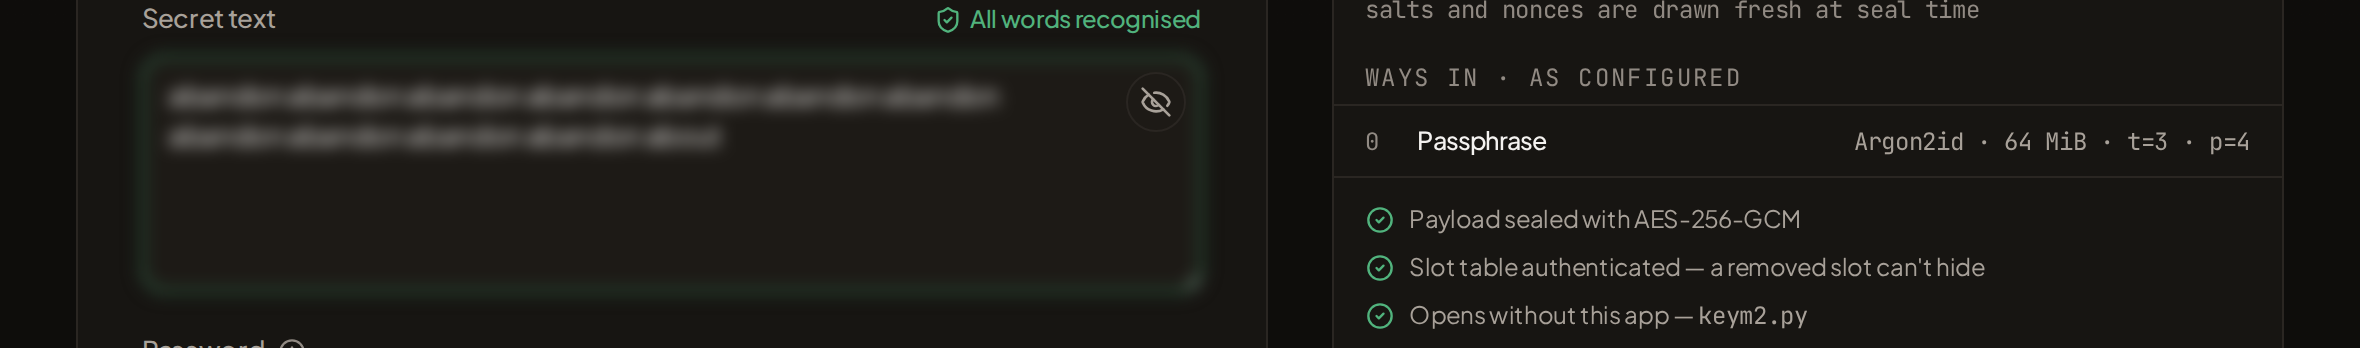
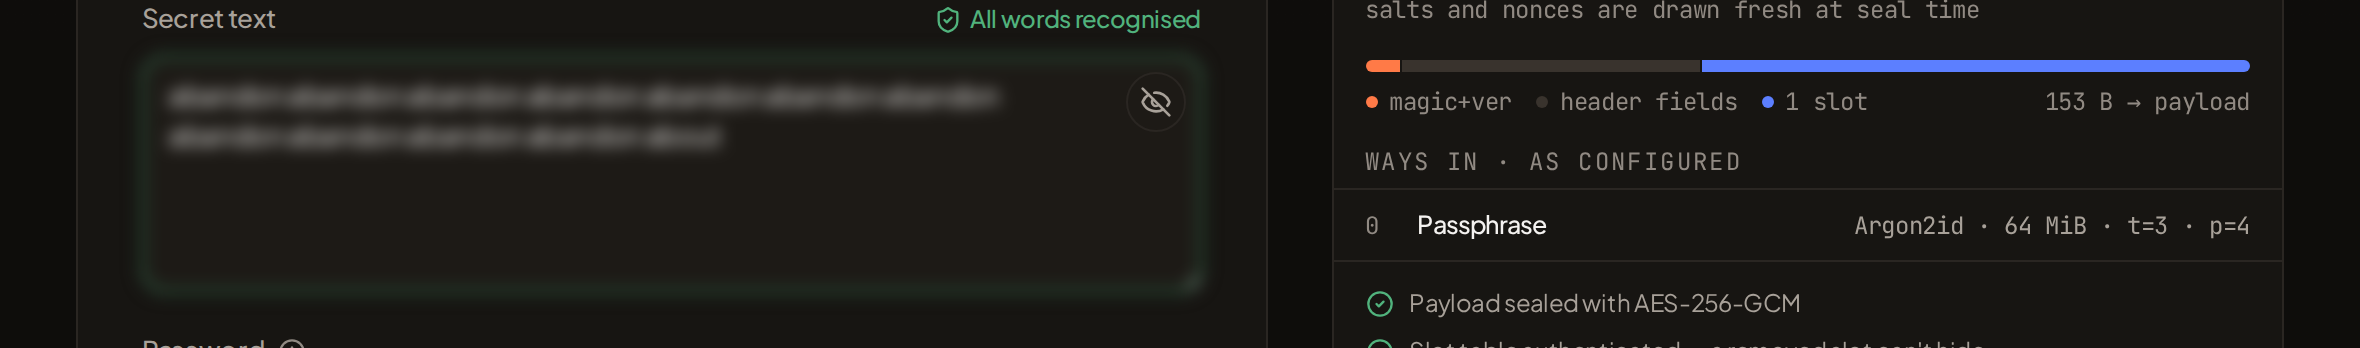
feat(ui): spend the sparks in the inspector - the byte map
UI-REVIEW.md item 4, the one deliberately left for its own change. The
container inspector gains a byte map under the hex readout: a strip
whose segment widths are the byte extents the parser (or the declared
plan) computes - ember for the 5-byte magic+version stamp, border-strong
for the header fields, #5C7FFF per slot. More slots draw a longer
table and a chained cipher draws wider slots, so the picture cannot
disagree with the rows below it. This is the data-visualisation use
DESIGN-SYSTEM.md's sparks section has sanctioned all along; the lifted
cuts had simply never been spent.

Marks only: every glyph stays in the warm text scale, and the block is
aria-hidden because the annotation line and the slot rows already say
all of it in text. It renders in the parsed branch and the itemised
plan branch, never the summary - the anticipation rule counts a diagram
as itemisation, and the spec asserts the absence.

The gate moved with the colour. #5c7fff and #ff7a47 joined the palette
audit's ALLOWED list (membership in the document alone is the drift the
audit exists to prevent), and the audit gained the itemised-plan view
as its eighth, so the one sanctioned use of the sparks is actually
scanned rather than shipping past a sweep that never opens the
disclosure.

Both directions were sabotage-verified. A map hardcoded to one slot
compiled and failed the two-slot container's segment count - the
fixed-picture defect the assertions were written for. Removing #5c7fff
[…]

diff --git a/src/components/container-inspector.tsx b/src/components/container-inspector.tsx
@@ -42,10 +42,92 @@ import { cn } from "@/lib/utils";
 export interface InspectorPlan {
   kdfLabel: string;
   cipherLabel: string;
+  /** The cipher as an id, so the byte map can size slots the way §6 does. */
+  cipherId: CipherId;
   keyFile: boolean;
   shares: { threshold: number; count: number } | null;
   passkey: boolean;
   inputBytes: number | null;
+}
+
+/* ── The byte map ─────────────────────────────────────────────────────────
+ *
+ * The one place the sparks are spent. § "The sparks — quarantined" permits
+ * the lifted cuts #5C7FFF / #FF7A47 in data visualisation and nowhere else,
+ * and this strip is data, not decoration: each segment's width is the byte
+ * extent it describes, computed from the same offsets the parser (or the
+ * plan) uses, so more slots draw a longer table and a chained cipher draws
+ * wider slots. Nothing here is invented, which is this pane's standing rule.
+ *
+ * Marks only — the type rule stands: a byte in a spark colour is a defect,
+ * so the sparks live in the segments and the legend dots while every glyph
+ * stays in the warm text scale. The whole block is aria-hidden because it
+ * restates what the annotation line and the slot rows already say in text;
+ * a screen reader loses nothing.
+ *
+ * `flexBasis: 3` is the honesty floor: the 5-byte stamp against a 300-byte
+ * header would otherwise round to nothing, and a map whose first landmark
+ * is invisible explains nothing. Below 3px the strip is schematic and the
+ * caption's byte count is the exact figure.
+ */
+interface ByteSpan {
+  key: string;
+  kind: "stamp" | "fields" | "slot";
+  bytes: number;
+}
+
+const SPAN_FILL: Record<ByteSpan["kind"], string> = {
+  stamp: "bg-[#FF7A47]",
+  fields: "bg-border-strong",
+  slot: "bg-[#5C7FFF]",
+};
+
+function byteMapSpans(version: number, cipher: number, slotCount: number): ByteSpan[] {
+  const table = keym2SlotTableOffset(version);
+  const width = keym2SlotLen(cipher);
+  return [
+    { key: "stamp", kind: "stamp", bytes: 5 },
+    { key: "fields", kind: "fields", bytes: table - 5 },
+    ...Array.from({ length: slotCount }, (_, i): ByteSpan => ({
+      key: `slot-${i}`,
+      kind: "slot",
+      bytes: width,
+    })),
+  ];
+}
+
+function ByteMap({ spans }: { spans: ByteSpan[] }) {
+  const total = spans.reduce((sum, s) => sum + s.bytes, 0);
+  const slots = spans.filter((s) => s.kind === "slot").length;
+  return (
+    <div aria-hidden="true" data-testid="inspector-byte-map" className="px-4 pt-3">
+      <div className="flex h-1.5 gap-px overflow-hidden rounded-full">
+        {spans.map((span) => (
+          <span
+            key={span.key}
+            data-kind={span.kind}
+            className={cn("h-full", SPAN_FILL[span.kind])}
+            style={{ flexGrow: span.bytes, flexBasis: 3 }}
+          />
+        ))}
+      </div>
+      <p className="flex flex-wrap items-center gap-x-3 gap-y-1 pt-1.5 font-mono text-[12px] text-subtle-foreground">
+        <span className="flex items-center gap-1.5">
+          <span className="inline-block h-1.5 w-1.5 rounded-full bg-[#FF7A47]" />
+          magic+ver
+        </span>
+        <span className="flex items-center gap-1.5">
+          <span className="inline-block h-1.5 w-1.5 rounded-full bg-border-strong" />
+          header fields
+        </span>
+        <span className="flex items-center gap-1.5">
+          <span className="inline-block h-1.5 w-1.5 rounded-full bg-[#5C7FFF]" />
+          {slots === 1 ? "1 slot" : `${slots} slots`}
+        </span>
+        <span className="ml-auto">{total} B → payload</span>
+      </p>
+    </div>
+  );
 }
 
 interface SlotRow {
@@ -56,6 +138,8 @@ interface SlotRow {
 
 interface ParsedPeek {
   version: number;
+  /** Kept as the id beside the label: the byte map sizes slots from it. */
+  cipher: number;
   cipherLabel: string;
   slotCount: number;
   slots: SlotRow[];
@@ -122,6 +206,7 @@ function parsePeek(peek: Uint8Array): ParsedPeek | "legacy" | null {
 
     return {
       version: core.version,
+      cipher: core.cipher,
       cipherLabel: cipherLabelOf(core.cipher),
       slotCount,
       slots,
@@ -258,6 +343,12 @@ export function ContainerInspector({
             </span>
           </div>
 
+          {/* Widths from the parsed offsets, so the map cannot disagree with
+              the rows below it. `slots.length` rather than the count byte: a
+              truncated peek itemises fewer rows, and the map draws what the
+              pane actually shows. */}
+          <ByteMap spans={byteMapSpans(parsed.version, parsed.cipher, parsed.slots.length)} />
+
           {/* ── The slot table, as parsed ───────────────────────── */}
           <p className="px-4 pb-1 pt-3 font-mono text-[12px] uppercase tracking-[0.1em] text-subtle-foreground">
             {parsed.slotCount === 1 ? "1 slot" : `${parsed.slotCount} slots`} · ways in
@@ -326,6 +417,11 @@ export function ContainerInspector({
           <p className="px-4 pb-1 pt-2 font-mono text-[12px] text-subtle-foreground">
             salts and nonces are drawn fresh at seal time
           </p>
+
+          {/* The plan side of the same map: version is what this app writes,
+              slot count is the ways-in the form has declared. Restated, not
+              predicted — every input comes from a control on screen. */}
+          <ByteMap spans={byteMapSpans(KEYM2_VERSION, plan.cipherId, waysIn)} />
 
           <p className="px-4 pb-1 pt-3 font-mono text-[12px] uppercase tracking-[0.1em] text-subtle-foreground">
             ways in · as configured

diff --git a/tests/browser/container-inspector.spec.ts b/tests/browser/container-inspector.spec.ts
@@ -24,6 +24,12 @@ const SECRET = "abandon ability able about above absent absorb abstract";
 
 const inspector = (page: Page) => page.getByTestId("container-inspector");
 const slotRows = (page: Page) => page.getByTestId("inspector-slot-row");
+// The byte map's slot segments answer to the same authority as the rows: the
+// slot-count byte. A map that drew a fixed picture instead of the parse would
+// fail every count below.
+const byteMap = (page: Page) => page.getByTestId("inspector-byte-map");
+const byteMapSlots = (page: Page) =>
+  page.locator('[data-testid="inspector-byte-map"] [data-kind="slot"]');
 
 /** The slot-count byte of an armored container, read the way §5 defines it. */
 function slotCountByte(armored: string): number {
@@ -71,6 +77,9 @@ test("encrypt: with no input the pane summarises instead of itemising", async ({
   await expect(pane).not.toContainText("Argon2id");
   await expect(pane).not.toContainText("ways in · as configured");
   await expect(slotRows(page)).toHaveCount(0);
+  // The byte map is itemisation too — a summary with a diagram is a wall
+  // with a picture on it.
+  await expect(byteMap(page)).toHaveCount(0);
 });
 
 test("encrypt: the itemisation is one click away, and still restates the form", async ({ page }) => {
@@ -84,6 +93,10 @@ test("encrypt: the itemisation is one click away, and still restates the form", 
   await expect(page.getByTestId("inspector-plan-summary")).toHaveCount(0);
   // Still a declared plan, not a parsed container.
   await expect(slotRows(page)).toHaveCount(0);
+  // The plan-side byte map draws the declared layout: one way in, one slot
+  // segment.
+  await expect(byteMap(page)).toBeVisible();
+  await expect(byteMapSlots(page)).toHaveCount(1);
 });
 
 test("encrypt: real input opens the itemisation without being asked", async ({ page }) => {
@@ -119,6 +132,8 @@ test("encrypt: after sealing, the pane shows what the bytes say", async ({ page 
   await expect(slotRows(page)).toHaveCount(trueCount);
   await expect(slotRows(page).first()).toContainText("Passphrase");
   await expect(slotRows(page).first()).toContainText("Argon2id");
+  // The map's slot segments agree with the same byte the rows answer to.
+  await expect(byteMapSlots(page)).toHaveCount(trueCount);
 });
 
 test("encrypt with shares: the second slot the worker enrolled is itemised", async ({ page }) => {
@@ -141,6 +156,9 @@ test("encrypt with shares: the second slot the worker enrolled is itemised", asy
   await expect(pane).not.toContainText("1 slot ·");
   await expect(slotRows(page)).toHaveCount(trueCount);
   await expect(slotRows(page).nth(1)).toContainText("Share set");
+  // Two slots in the byte, two segments in the map — the map grows with the
+  // container, or it is a logo.
+  await expect(byteMapSlots(page)).toHaveCount(trueCount);
 });
 
 test("decrypt: a loaded container is itemised before any unlock is attempted", async ({ page }) => {
@@ -158,6 +176,7 @@ test("decrypt: a loaded container is itemised before any unlock is attempted", a
   await expect(pane).toContainText("KEYM v3");
   await expect(slotRows(page)).toHaveCount(1);
   await expect(slotRows(page).first()).toContainText("Argon2id");
+  await expect(byteMapSlots(page)).toHaveCount(1);
   await expect(visible(page.getByPlaceholder("Enter decryption password"))).toHaveValue("");
 
   // And the unlock it previews still works — the pane is a reading, not a
@@ -187,4 +206,7 @@ test("negative control: a version no parser accepts produces no rows", async ({ 
   await expect(slotRows(page)).toHaveCount(0);
   await expect(pane).not.toContainText("What you loaded — KEYM");
   await expect(pane).not.toContainText("slots · ways in");
+  // No parse, no map: the same control that keeps the rows honest keeps the
+  // picture honest.
+  await expect(byteMap(page)).toHaveCount(0);
 });

diff --git a/src/components/encryptor-tool.tsx b/src/components/encryptor-tool.tsx
@@ -4082,6 +4082,7 @@ export function EncryptorTool() {
           : cipherChoice === CipherId.CHACHA20_POLY1305
             ? "ChaCha20-Poly1305"
             : "AES-256-GCM + ChaCha20-Poly1305",
+      cipherId: cipherChoice,
       keyFile: useKeyFile && keyFile !== null,
       shares: shamirEnabled ? { threshold: shamirThreshold, count: shamirCount } : null,
       passkey: usePasskey,

diff --git a/docs/design/STATUS.md b/docs/design/STATUS.md
@@ -125,6 +125,22 @@ the 12px floor, AA contrast, and the container-inspector spec are part of
     terminal-register data surface; its rows tightened two points and the new
     command bar carries the same mono voice (group labels, kbd chips, hints).
 
+- The sparks are spent, once, where UI-REVIEW.md item 4 said they were owed:
+  the container inspector's **byte map**, a strip under the hex readout whose
+  segment widths are the byte extents the parser (or the plan) computes —
+  ember for the 5-byte magic+version stamp, `border-strong` for the header
+  fields, `#5C7FFF` per slot, so more slots draw a longer table and a chained
+  cipher draws wider slots. Marks only; every glyph stays in the warm text
+  scale, and the block is aria-hidden because the annotation line and the
+  slot rows already say all of it in text. It renders in the parsed branch
+  and the itemised plan branch, never the summary — the anticipation rule
+  counts a diagram as itemisation. The lifted cuts joined the palette gate's
+  ALLOWED list (they were named in § sparks all along, used nowhere), the
+  audit gained the plan-detail view as its eighth so the one sanctioned use
+  is actually scanned, and both sides were sabotage-verified: a map hardcoded
+  to one slot failed the two-slot container's segment count, and removing
+  `#5c7fff` from ALLOWED failed the audit naming the strip's own spans.
+
 - The plate is brighter, and the gate moved with it. `brightness(1.3)
   saturate(1.2)` on the hero img lifts it from 2.32x the canvas mean to 3.23x
   (peak 10.2x → 16.7x) — once opacity was already 1.0, the filter was the

diff --git a/docs/design/UI-REVIEW.md b/docs/design/UI-REVIEW.md
@@ -116,9 +116,13 @@ Items 1–3 of the list above landed together — the command bar, the
 monospace-register data surfaces (which the inspector already mostly was), the
 rhythm pass, and the micro-motion. `STATUS.md` records the details, including
 the sabotage run that proved `command-bar.spec.ts` bites and the seventh view
-both audits gained. Item 4, spending the sparks once in the inspector, is
-deliberately still open: it is the one item that adds colour to chrome-adjacent
-territory, and it deserves its own change with the palette gate watching.
+both audits gained.
+
+Item 4 landed separately, as intended: the inspector's byte map spends the
+spark cuts on segment marks whose widths are the parsed byte extents, the
+palette gate learned the two colours and the view that shows them, and both
+the map and the gate were shown to fail when sabotaged. `STATUS.md` has the
+particulars. The list is complete.
 
 ## Method and caveats
 
